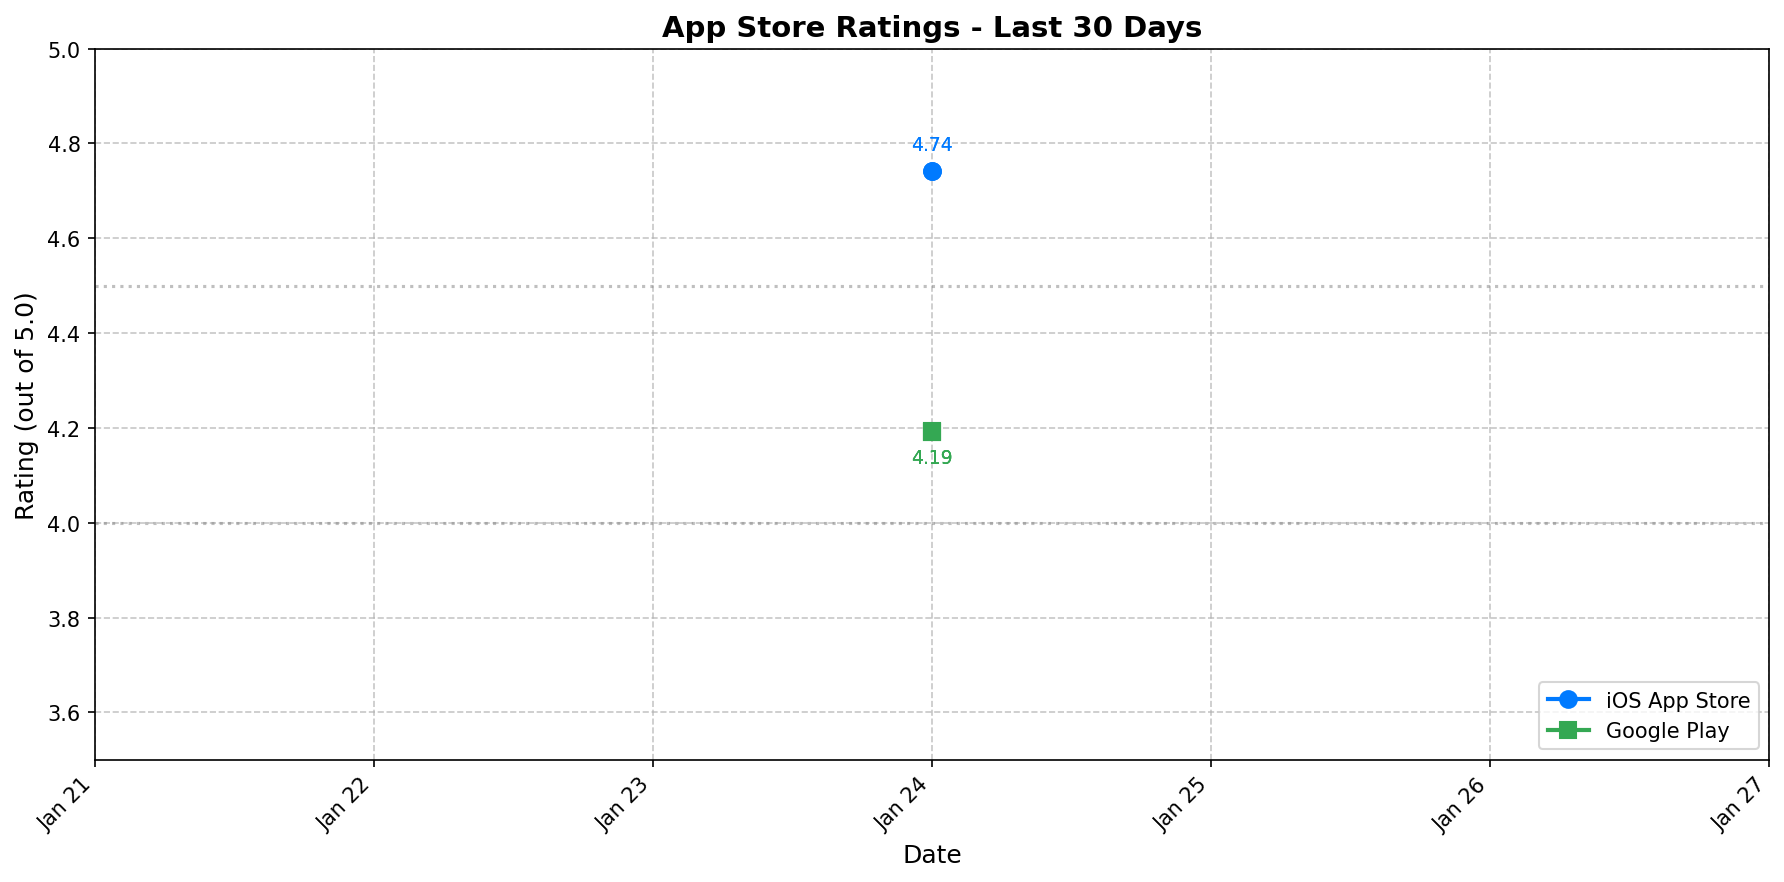
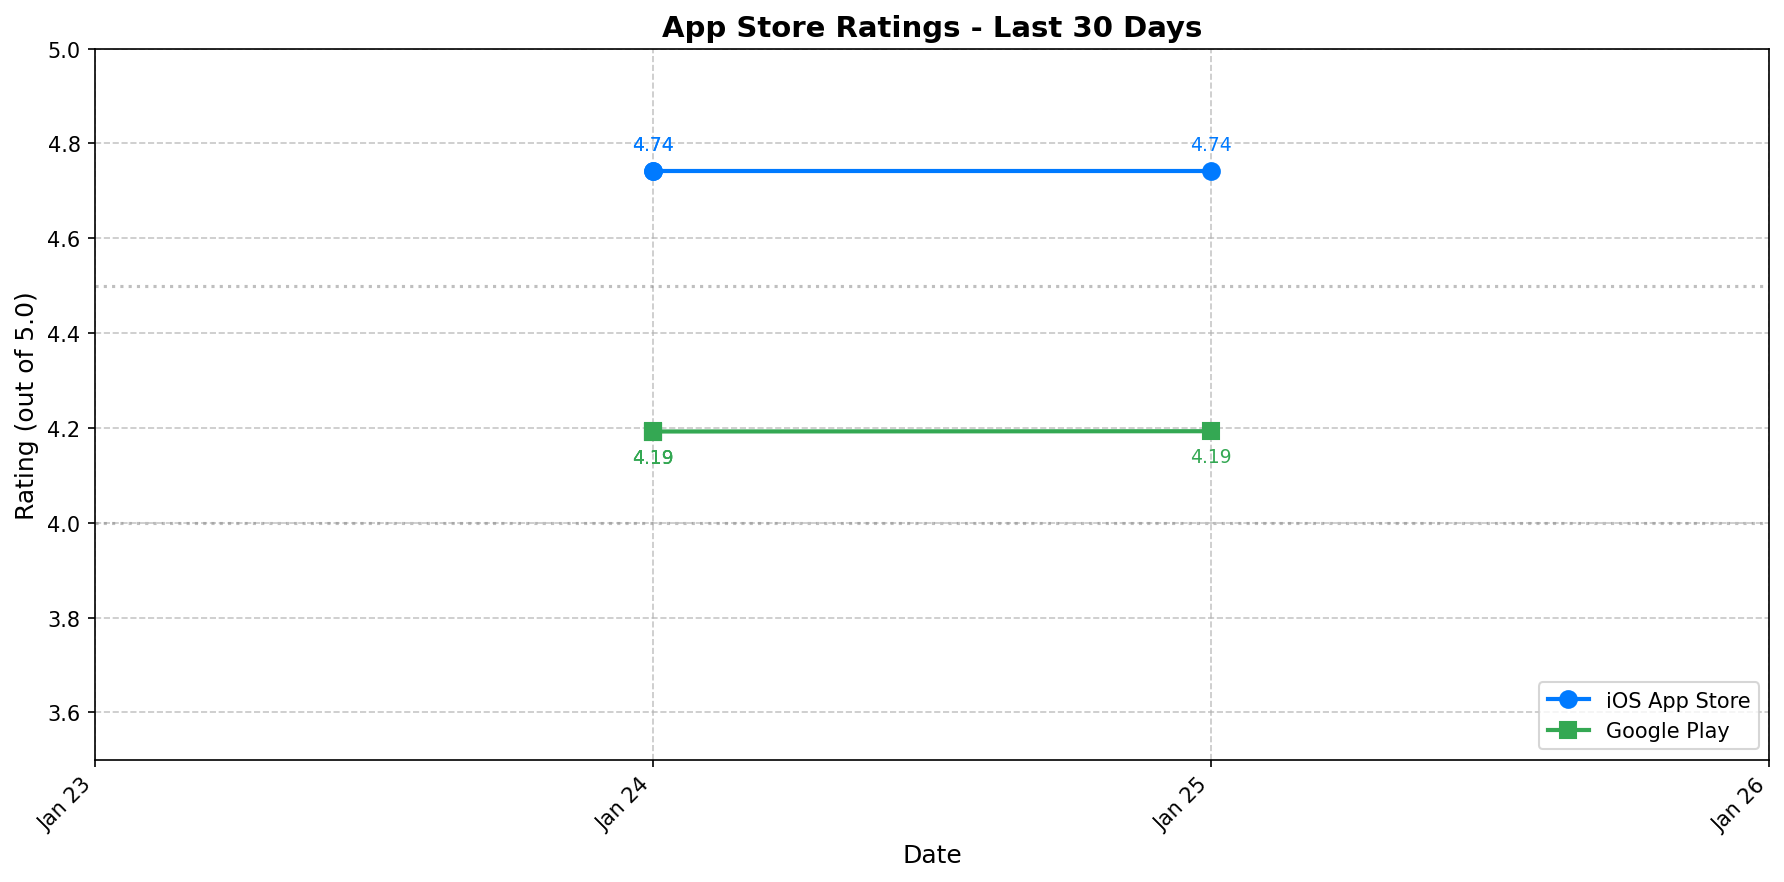
Update daily rating trend data for Jan 25, 2026
- iOS US: 4.74 rating
- Android US: 4.19 rating

diff --git a/output/insights/Rating_History_Report.md b/output/insights/Rating_History_Report.md
@@ -1,6 +1,6 @@
 # App Rating History Report
 
-**Generated:** 2026-01-24 15:12
+**Generated:** 2026-01-25 13:14
 
 ---
 
@@ -24,6 +24,7 @@
 
 | Date | Rating | Rating Count |
 |------|--------|--------------|
+| 2026-01-25 | 4.74 | 3,961,463 |
 | 2026-01-24 | 4.74 | 3,961,463 |
 | 2026-01-24 | 4.74 | 3,961,463 |
 
@@ -33,6 +34,7 @@
 
 | Date | Rating | Rating Count | Installs |
 |------|--------|--------------|----------|
+| 2026-01-25 | 4.19 | 867,702 | 100,000,000+ |
 | 2026-01-24 | 4.19 | 867,483 | 100,000,000+ |
 | 2026-01-24 | 4.19 | 867,472 | 100,000,000+ |
 | 2026-01-24 | 4.19 | 867,472 | 100,000,000+ |
@@ -43,11 +45,11 @@
 
 | Stars | Count | Percentage |
 |-------|-------|------------|
-| 5 | 621,777 | 71.7% |
-| 4 | 70,131 | 8.1% |
-| 3 | 26,003 | 3.0% |
-| 2 | 19,956 | 2.3% |
-| 1 | 129,602 | 14.9% |
+| 5 | 622,081 | 71.7% |
+| 4 | 70,149 | 8.1% |
+| 3 | 25,998 | 3.0% |
+| 2 | 19,914 | 2.3% |
+| 1 | 129,541 | 14.9% |
 
 ---
 
